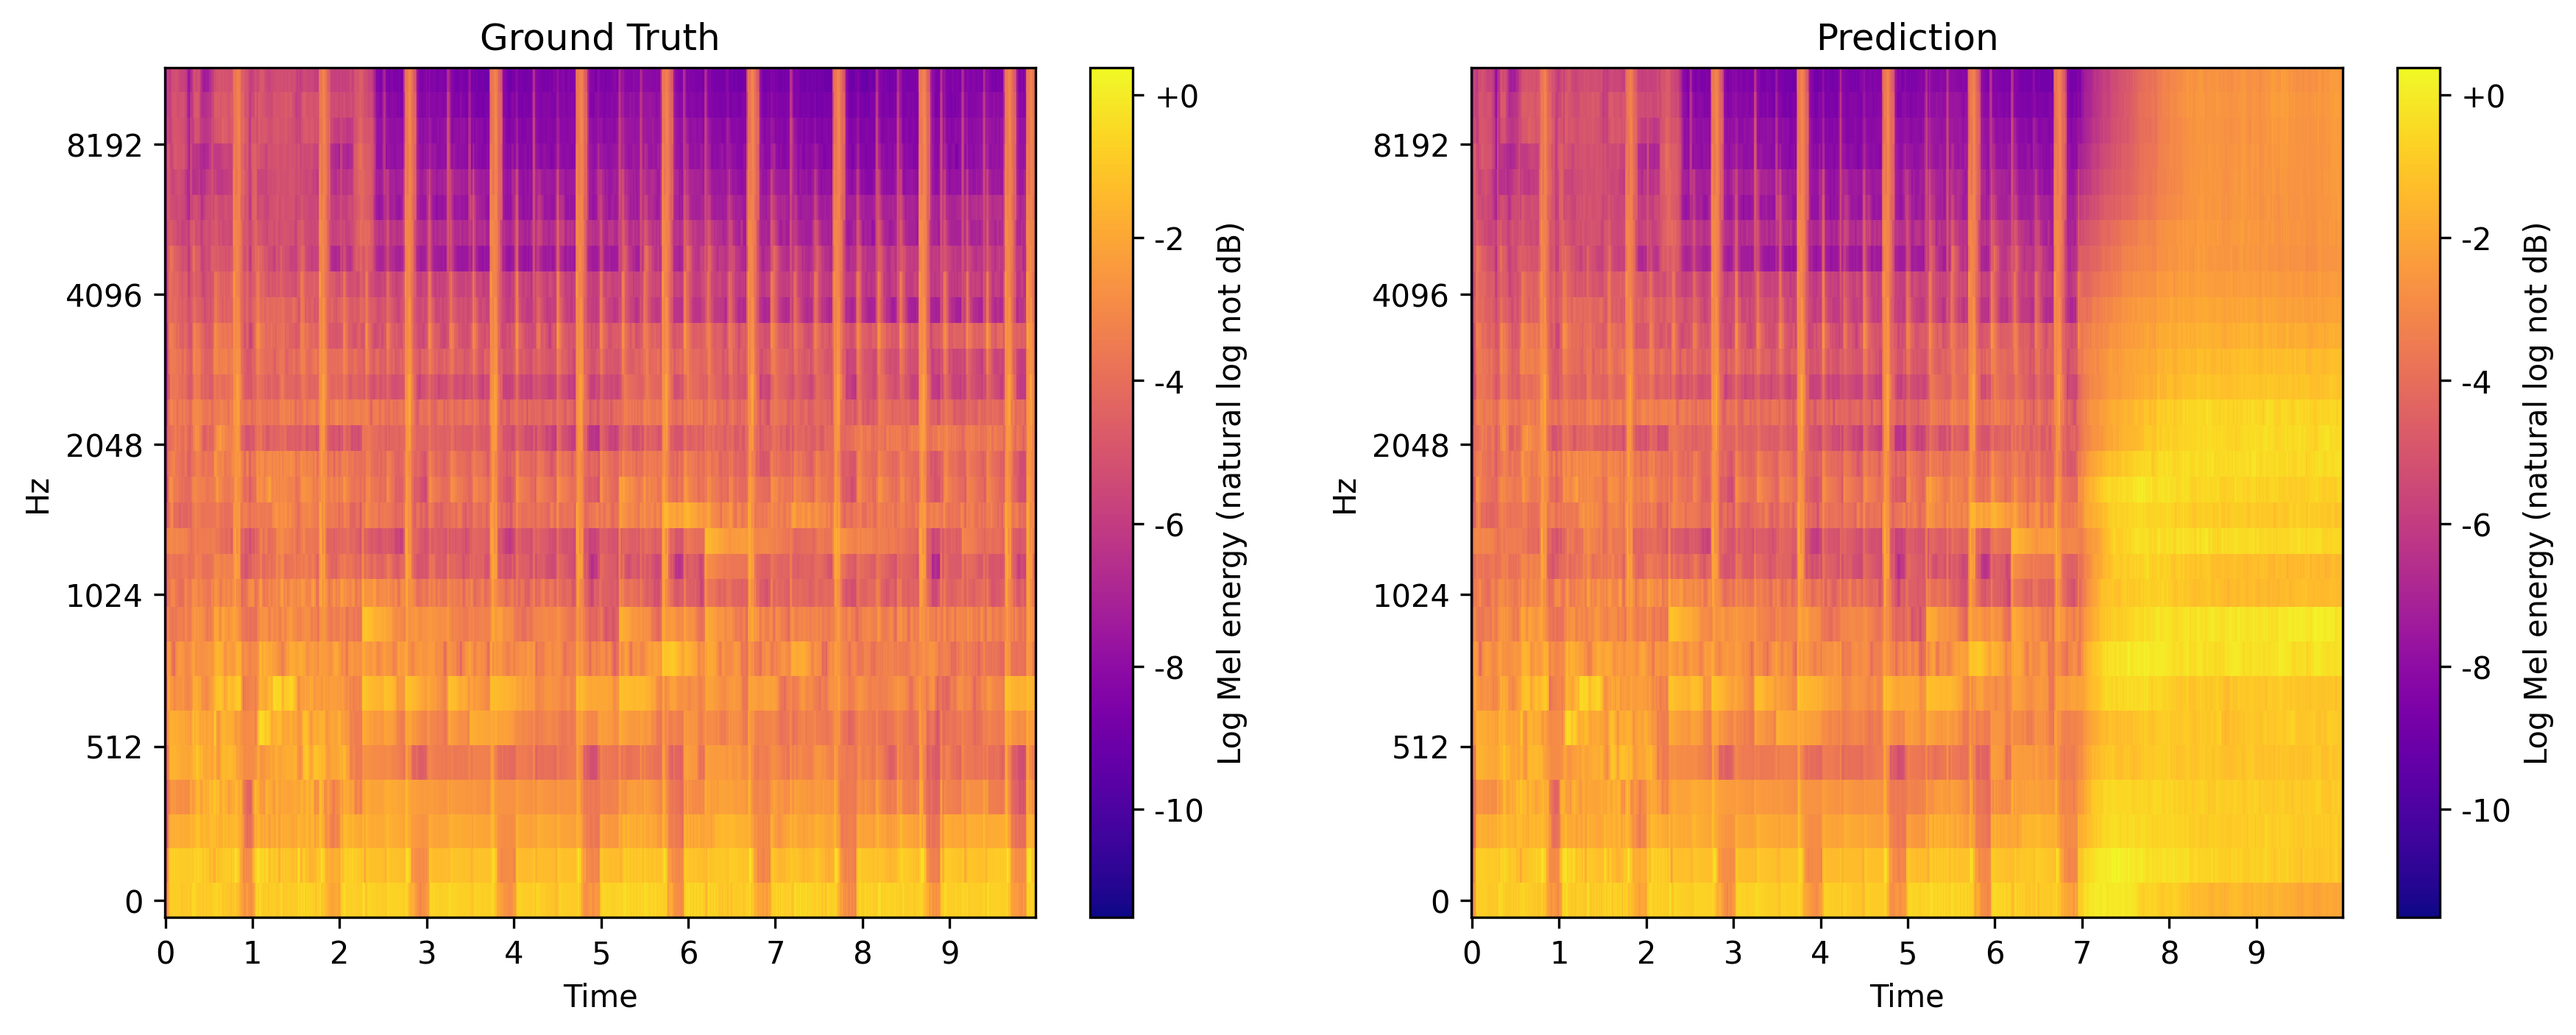
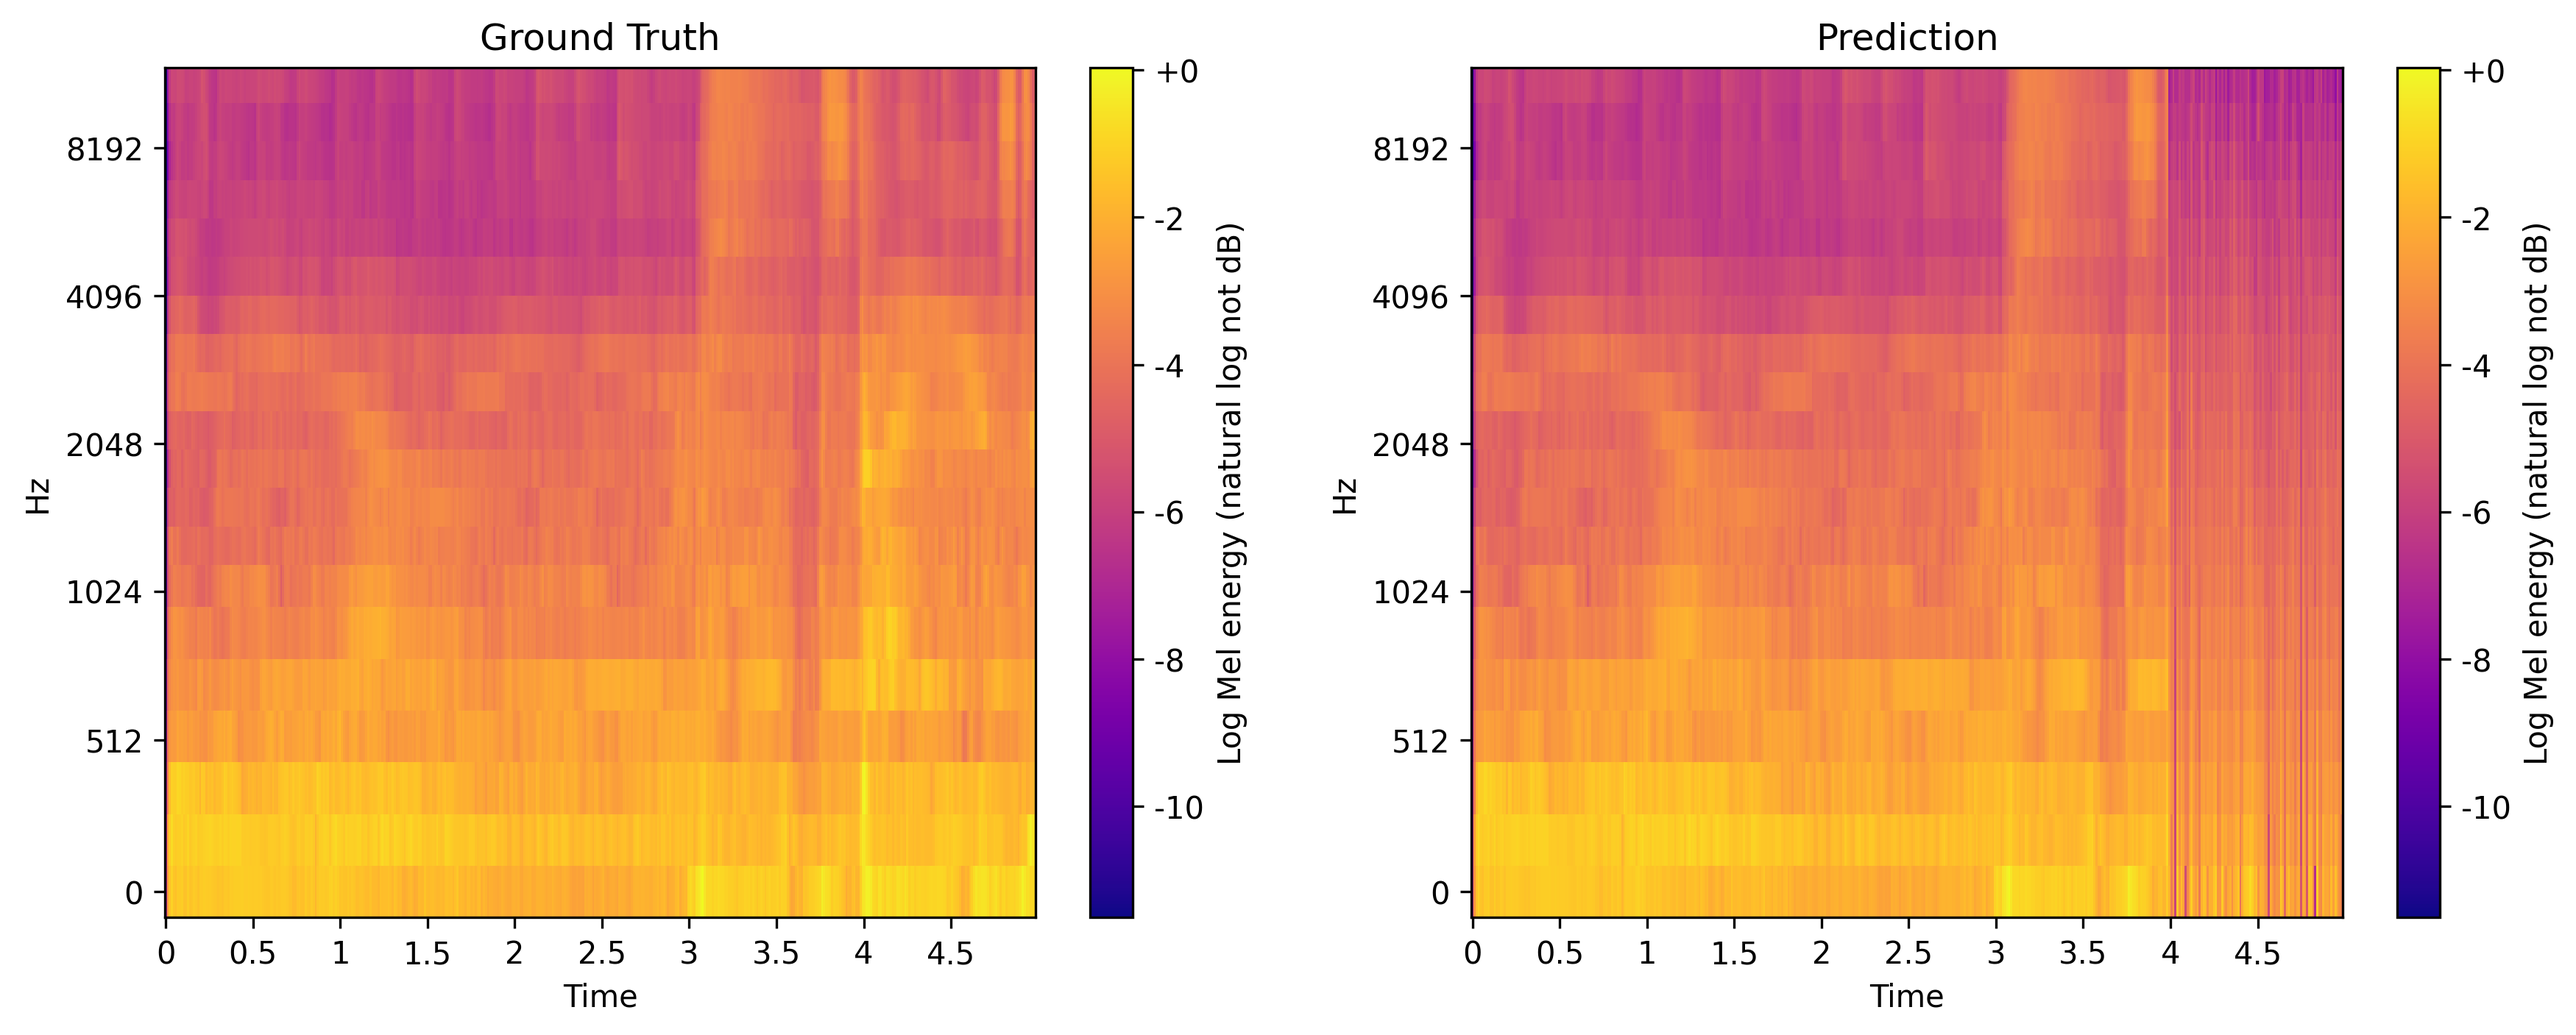
adding frame and melbin autoregression by flattening sequence in time and freq

diff --git a/specmodel/audio_train.py b/specmodel/audio_train.py
@@ -53,20 +53,15 @@ def train_step(model, criterion, optimizer, mel):
 
     mel = mel.to(device)
 
-    # shift for autoregressive training
-    x_input  = mel[:, :-1, :]   # (B, T-1, 80)
-    x_target = mel[:, 1:, :]    # (B, T-1, 80)
+    B, T, F = mel.shape
 
-    use_model_pred = torch.rand(1).item() < 0.1
+    mel_flat = mel.reshape(B, T * F, 1)
 
-    #scheduled sampling randomly
-    if use_model_pred:
-        with torch.no_grad():
-            preds = model(x_input)
-        x_input = preds.detach()
-        
+    #Shift in flattened space, still using autoregressive training but now with prev freq frames too
+    x_input  = mel_flat[:, :-1, :]   # (B, L-1, 1)
+    x_target = mel_flat[:, 1:, :]    # (B, L-1, 1)
 
-    preds = model(x_input)
+    preds = model(x_input)           # (B, L-1, 1)
 
     optimizer.zero_grad()
     loss = criterion(preds, x_target)
@@ -83,9 +78,12 @@ def validate(model, dataloader, criterion):
         for mel in dataloader:
             mel = mel.to(device)
 
-            x_input  = mel[:, :-1, :]
-            x_target = mel[:, 1:, :]
-            
+            B, T, F = mel.shape
+
+            mel_flat = mel.reshape(B, T * F, 1)
+
+            x_input  = mel_flat[:, :-1, :]
+            x_target = mel_flat[:, 1:, :]
 
             preds = model(x_input)
 
@@ -97,25 +95,28 @@ def validate(model, dataloader, criterion):
 def eval(model, dataset, seed_seconds=7.0, sr=22050, hop_length=256):
     model.eval()
 
-    mel = dataset[0]  # (T, 80)
+    mel = dataset[0]  # (T, F)
     mel = mel.to(device)
 
     seed_frames = int(seed_seconds * sr / hop_length)
 
-    seed = mel[:seed_frames].unsqueeze(0)  # (1, T_seed, 80)
+    seed = mel[:seed_frames].unsqueeze(0)  # (1, T_seed, F)
 
-    generated = seed.clone()
+    #flatten
+    generated = seed.reshape(1, -1, 1)
 
-    num_future = mel.shape[0] - seed_frames
+    total_bins = mel.shape[0] * mel.shape[1]
+    seed_bins = generated.shape[1]
+
+    num_future = total_bins - seed_bins
 
     with torch.no_grad():
         for _ in range(num_future):
             preds = model(generated)
+            next_bin = preds[:, -1:, :]
+            generated = torch.cat([generated, next_bin], dim=1)
 
-            next_frame = preds[:, -1:, :]  # last timestep
+    #reshape back
+    generated = generated.reshape(1, mel.shape[0], mel.shape[1])
 
-            generated = torch.cat([generated, next_frame], dim=1)
-
-    generated = generated.squeeze(0).cpu()
-
-    return mel.cpu(), generated
+    return mel.cpu(), generated.squeeze(0).cpu()

diff --git a/specmodel/mel_model.py b/specmodel/mel_model.py
@@ -10,7 +10,7 @@ def generate_causal_mask(T, device):
 class MelTransformer(nn.Module):
     def __init__(
         self,
-        n_mels=80,
+        n_mels,
         d_model=128,
         n_heads=4,
         n_layers=4,
@@ -21,9 +21,12 @@ class MelTransformer(nn.Module):
     ):
         super(MelTransformer, self).__init__()
 
-        self.input_proj = nn.Linear(n_mels, d_model)
+        self.input_proj = nn.Linear(1, d_model)
 
-        self.pos_embedding = nn.Parameter(torch.randn(1, max_len, d_model))
+        #TODO: change max_lemb_emb, T*F = ~26000
+        max_len_emb = 26000
+        #TODO: Implement specific frequency and time encodings
+        self.pos_embedding = nn.Parameter(torch.randn(1, max_len_emb, d_model))
 
         encoder_layer = nn.TransformerEncoderLayer(
             d_model=d_model,
@@ -39,24 +42,21 @@ class MelTransformer(nn.Module):
             num_layers=n_layers
         )
 
-        self.output_proj = nn.Linear(d_model, n_mels)
+        self.output_proj = nn.Linear(d_model, 1)
     
 
     def forward(self, x):
-        # x: (B, T, 80)
+        # x: (B, L, 1)
 
-        #input projection to encoder
-        x = self.input_proj(x)     # (B, T, D)
+        x = self.input_proj(x)  # (B, L, D)
 
-        #positional encoding
-        T = x.size(1)
-        x = x + self.pos_embedding[:, :T, :]
+        L = x.size(1)
+        x = x + self.pos_embedding[:, :L, :]
 
-        #causal mask
-        causal_mask = generate_causal_mask(T, x.device)
+        mask = generate_causal_mask(L, x.device)
 
-        x = self.transformer(x, mask=causal_mask)
+        x = self.transformer(x, mask=mask)
 
-        x = self.output_proj(x)    # (B, T, 80)
-    
+        x = self.output_proj(x)  # (B, L, 1)
+
         return x

diff --git a/specmodel/mel_trainer.py b/specmodel/mel_trainer.py
@@ -27,11 +27,6 @@ def main():
                         default=1e-4
                         )
     
-    parser.add_argument("--mask_seconds", 
-                        type=float, 
-                        default=3.0
-                        )
-    
     parser.add_argument("--mel_dir", 
                         type=str, 
                         default="../data/mels/1-of-15")
@@ -66,6 +61,7 @@ def main():
     POWER = mel_config['power']
     LOG_TYPE = mel_config['log_type']
     CLIP_LENGTH= mel_config['clip_length'] #in seconds
+    MASK_SECONDS= mel_config['mask_seconds'] #in seconds
 
     #MODEL PARAMS
     D_MODEL = mel_config['d_model']
@@ -76,9 +72,10 @@ def main():
 
     full_dataset = MelMaskedDataset(
     mel_dir=args.mel_dir,
-    mask_seconds=args.mask_seconds, 
+    mask_seconds=MASK_SECONDS, 
+    total_clip_length=CLIP_LENGTH,
     sr=SAMPLE_RATE, 
-    hop_length= HOP_LENGTH
+    hop_length= HOP_LENGTH 
     )
 
     train_set, val_set = get_dataset_splits(full_dataset, args.train_split)
@@ -103,7 +100,7 @@ def main():
     
     print("Beginning Mel Training")
     train_mel(model=model, train_dataset=train_set, val_dataset=val_set, num_epochs=args.epochs, batch_size=args.batch_size, lr=args.lr)
-    seed_frames = int(CLIP_LENGTH - args.mask_seconds) #in seconds
+    seed_frames = int(CLIP_LENGTH - MASK_SECONDS) #in seconds
     ground_truth_mel, predicted_mel = eval(model, val_set, seed_seconds=seed_frames)
     #generator = get_hifi_gan_generator()
     #write_to_waveform("ground_truth_wav.wav", ground_truth_mel, generator, SAMPLE_RATE)

diff --git a/specmodel/preprocess_wav_to_mel_spec.py b/specmodel/preprocess_wav_to_mel_spec.py
@@ -26,6 +26,7 @@ FMIN = mel_config['fmin']
 FMAX = mel_config['fmax']
 POWER = mel_config['power']
 LOG_TYPE = mel_config['log_type']
+CLIP_LENGTH = mel_config['clip_length'] #clips the length of mel spec to this size in seconds
 
 def decode_row(audio_dict):
     y, sr = librosa.load(io.BytesIO(audio_dict['bytes']),
@@ -68,7 +69,7 @@ def convert_parquet_to_waveform():
 def convert_waveform_to_mel_spec():
     #Load the audio files from waveforms folder and convert to mel spectrograms
     total_counter = 0
-    max_len = SAMPLE_RATE * 10  # 10 seconds
+    max_len = SAMPLE_RATE * CLIP_LENGTH
 
     for i in range(0,15):
         counter = 0
